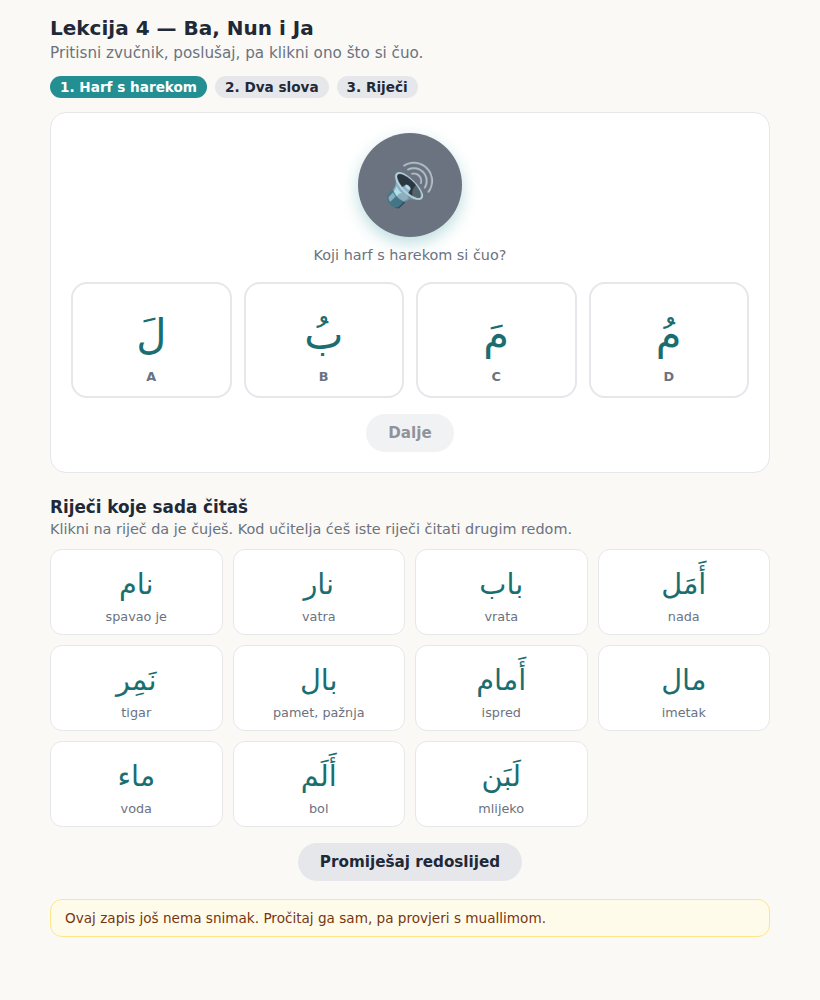
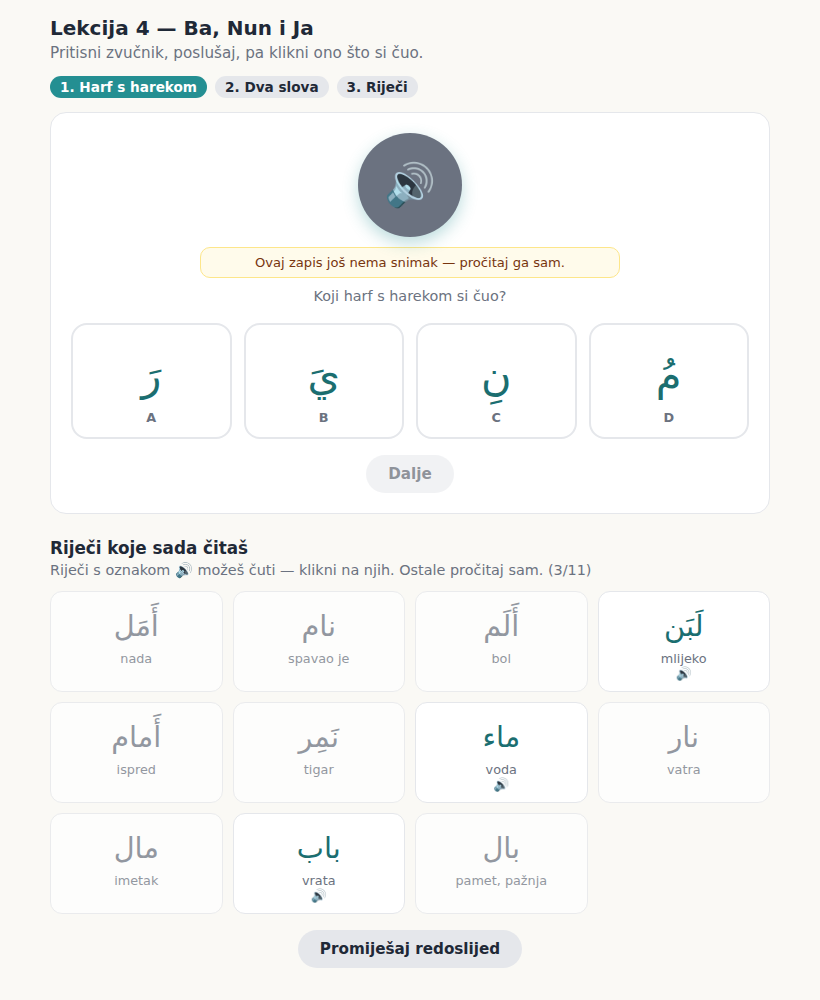
Vidi se gdje zvuka ima, a gdje ga nema
Zvuk je radio, ali se to nije moglo znati: poruka o tome što snimka nema
stajala je na dnu stranice, ispod cijelog spiska riječi, pa je izgledalo kao
da zvuka nema nigdje. Provjerio sam instrumentiranim Audio.play — snimak se
uredno pušta, stanje „svira", bez greške.

Sada:
- poruka „ovaj zapis još nema snimak" stoji odmah ispod zvučnika
- zvučnik posivi kad nema šta pustiti
- riječ sa snimkom nosi oznaku 🔊, riječ bez njega je blijeda
- iznad spiska piše koliko ih se može čuti, npr. 3/11

Usput sam u istoj izmjeni slomio vježbu: novi element nije bio upisan u mapu
elemenata, pa je svaki crtež pitanja bacao TypeError. Provjera ga je uhvatila
odmah, 31 greška u konzoli.

Claude-Session: https://claude.ai/code/session_01GM373Skx6tX1P1baQCx6Jb

diff --git a/artifacts/mekteb-arapsko-pismo/public/vjezbe/slusaj/slusaj.html b/artifacts/mekteb-arapsko-pismo/public/vjezbe/slusaj/slusaj.html
@@ -84,6 +84,14 @@
   #zvucnik.nijem { background: var(--sivi); }
   @keyframes kucaj { 0%,100% { transform: scale(1); } 50% { transform: scale(1.08); } }
   .pomoc { margin-top: 10px; color: var(--sivi); font-size: .9rem; min-height: 1.2em; }
+  .bezZvuka {
+    margin: 10px auto 0; max-width: 420px; padding: 7px 12px; border-radius: 10px;
+    background: #FFFBEB; border: 1px solid #FDE68A; color: #78350F; font-size: .82rem;
+  }
+  /* Zvučnik na kartici riječi: odmah se vidi šta se može čuti. */
+  .rijec .ima-zvuk { font-size: .8rem; color: var(--tirkiz); }
+  .rijec.nijema { opacity: .72; }
+  .rijec.nijema .zapis { color: var(--sivi); }
   .ponude { display: grid; grid-template-columns: repeat(2, 1fr); gap: 12px; margin-top: 18px; }
   @media (min-width: 560px) { .ponude { grid-template-columns: repeat(4, 1fr); } }
   .ponuda {
@@ -142,6 +150,7 @@
 
   <div class="kartica" id="igra">
     <button id="zvucnik" type="button" aria-label="Poslušaj">🔊</button>
+    <div class="bezZvuka sakrij" id="bezZvuka"></div>
     <div class="pomoc" id="pomoc"></div>
     <div class="ponude" id="ponude"></div>
     <div class="podnozje">
@@ -157,7 +166,7 @@
 
   <div class="spisak" id="spisak">
     <h2>Riječi koje sada čitaš</h2>
-    <p>Klikni na riječ da je čuješ. Kod učitelja ćeš iste riječi čitati drugim redom.</p>
+    <p id="uputaSpisak">Kod učitelja ćeš iste riječi čitati drugim redom.</p>
     <div class="rijeci" id="rijeci"></div>
     <div class="podnozje">
       <button class="dugme sporedno" id="promijesaj" type="button">Promiješaj redoslijed</button>
@@ -186,7 +195,8 @@
     rezultat: document.getElementById('rezultat'), igra: document.getElementById('igra'),
     gotovo: document.getElementById('gotovo'), zavrsna: document.getElementById('zavrsna'),
     ponovo: document.getElementById('ponovo'), rijeci: document.getElementById('rijeci'),
-    promijesaj: document.getElementById('promijesaj'), napomenaGlas: document.getElementById('napomenaGlas')
+    promijesaj: document.getElementById('promijesaj'), bezZvuka: document.getElementById('bezZvuka'),
+    napomenaGlas: document.getElementById('napomenaGlas')
   };
 
   var podaci = null, krugovi = [], krug = 0, pitanje = 0, tacno = 0, ukupno = 0, pocetak = 0, odgovoreno = false;
@@ -222,11 +232,11 @@
     var bezZvuka = function () {
       gotov();
       el.zvucnik.classList.add('nijem');
-      el.napomenaGlas.textContent = T('Ovaj zapis još nema snimak. Pročitaj ga sam, pa provjeri s muallimom.');
-      el.napomenaGlas.classList.remove('sakrij');
+      el.bezZvuka.textContent = T('Ovaj zapis još nema snimak — pročitaj ga sam.');
+      el.bezZvuka.classList.remove('sakrij');
     };
     el.zvucnik.classList.remove('nijem');
-    el.napomenaGlas.classList.add('sakrij');
+    el.bezZvuka.classList.add('sakrij');
     if (!stavka.zvuk) return bezZvuka();
     el.zvucnik.classList.add('svira');
     pustiSnimak(stavka.zvuk).then(gotov).catch(bezZvuka);
@@ -309,13 +319,22 @@
 
   /* ---------- spisak za čitanje ---------- */
   function nacrtajSpisak(redom) {
+    var saZvukom = redom.filter(function (r) { return r.zvuk; }).length;
+    var uputa = document.getElementById('uputaSpisak');
+    if (uputa) {
+      uputa.textContent = saZvukom
+        ? T('Riječi s oznakom 🔊 možeš čuti — klikni na njih. Ostale pročitaj sam.') + ' (' + saZvukom + '/' + redom.length + ')'
+        : T('Nijedna riječ još nema snimak. Pročitaj ih sam, pa provjeri s muallimom.');
+    }
     el.rijeci.innerHTML = '';
     redom.forEach(function (r) {
       var d = document.createElement('div');
       d.className = 'rijec';
-      d.innerHTML = '<div class="zapis"></div><div class="prijevod"></div>';
+      d.innerHTML = '<div class="zapis"></div><div class="prijevod"></div><div class="ima-zvuk"></div>';
       d.querySelector('.zapis').textContent = r.zapis;
       d.querySelector('.prijevod').textContent = r.znacenje || r.citanje || '';
+      d.querySelector('.ima-zvuk').textContent = r.zvuk ? '🔊' : '';
+      if (!r.zvuk) d.classList.add('nijema');
       d.addEventListener('click', function () { odsviraj(r); });
       el.rijeci.appendChild(d);
     });
